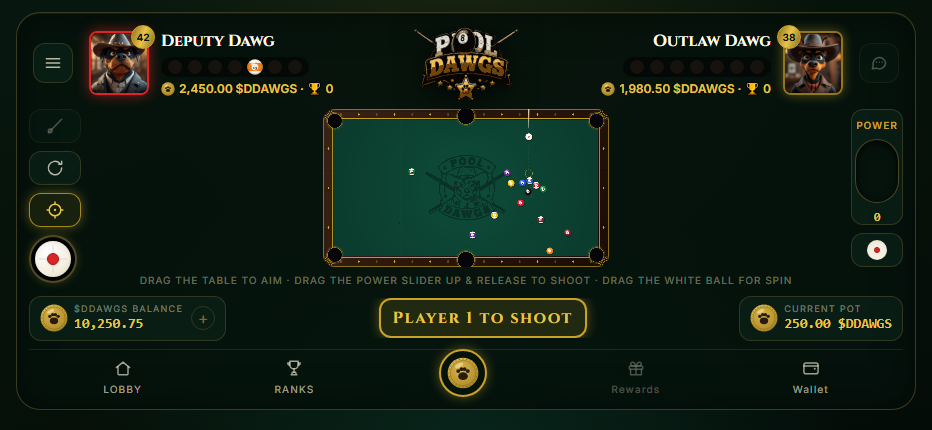
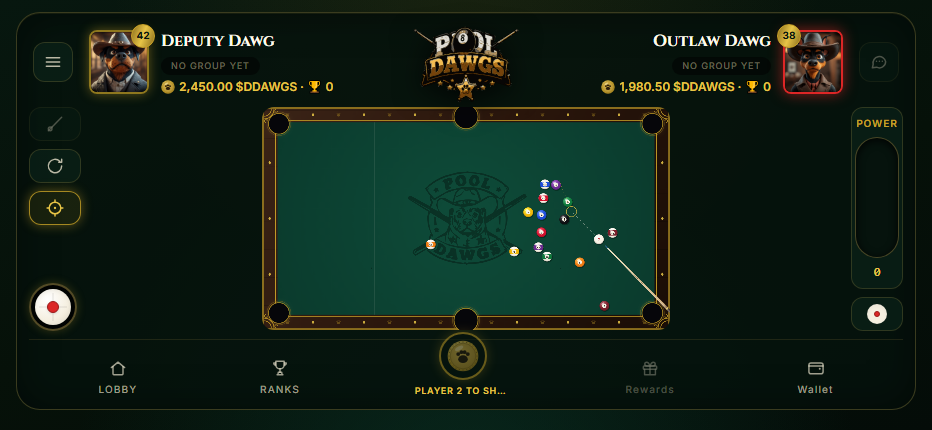
update: frection and 3D

diff --git a/apps/web/components/PoolTable3D.tsx b/apps/web/components/PoolTable3D.tsx
@@ -7,6 +7,7 @@ import { ArcRotateCamera } from "@babylonjs/core/Cameras/arcRotateCamera.js";
 import { HemisphericLight } from "@babylonjs/core/Lights/hemisphericLight.js";
 import { DirectionalLight } from "@babylonjs/core/Lights/directionalLight.js";
 import { Vector3, Color3, Color4 } from "@babylonjs/core/Maths/math.js";
+import { Quaternion } from "@babylonjs/core/Maths/math.vector.js";
 import { MeshBuilder } from "@babylonjs/core/Meshes/meshBuilder.js";
 import { StandardMaterial } from "@babylonjs/core/Materials/standardMaterial.js";
 import { DynamicTexture } from "@babylonjs/core/Materials/Textures/dynamicTexture.js";
@@ -33,10 +34,6 @@ const wz = (py: number) => (TABLE_HEIGHT / 2 - py) * S;
 const R = BALL_RADIUS * S;
 
 const SOLID = "#f5efe0";
-const NUM_COLOR: Record<number, string> = {
-  1: "#f0b90b", 2: "#1f4fd8", 3: "#d2122e", 4: "#6a2c91", 5: "#ef7d14",
-  6: "#0f7a3d", 7: "#7a1f2b", 8: "#101014",
-};
 
 export interface ShotPlayback {
   frames: Frame[];
@@ -233,69 +230,81 @@ function applyFrame(balls: Mesh[], frame: Frame, scene: Scene, ids: BallLike[]):
     }
     if (ids[fb.id]) styleBall(m, ids[fb.id], scene);
     m.isVisible = true;
-    m.position.set(wx(fb.x), R, wz(fb.y));
+    const nx = wx(fb.x);
+    const nz = wz(fb.y);
+    rollBall(m, nx, nz); // rotate by the distance travelled BEFORE moving
+    m.position.set(nx, R, nz);
   }
+}
+
+/**
+ * Roll the ball like a real one: rotate about the horizontal axis
+ * perpendicular to its motion by angle = distance / radius (rolling without
+ * slipping). Composes in world space so successive frames accumulate.
+ */
+function rollBall(mesh: Mesh, nx: number, nz: number): void {
+  const dx = nx - mesh.position.x;
+  const dz = nz - mesh.position.z;
+  const dist = Math.hypot(dx, dz);
+  if (dist < 1e-5 || dist > R * 6) return; // ignore teleports (re-rack/placement)
+  // axis = up × dir = (0,1,0) × (dx,0,dz) = (dz, 0, -dx)
+  const axis = new Vector3(dz / dist, 0, -dx / dist);
+  const q = Quaternion.RotationAxis(axis, dist / R);
+  mesh.rotationQuaternion = q.multiply(mesh.rotationQuaternion ?? Quaternion.Identity());
 }
 
 const styled = new WeakSet<Mesh>();
 function styleBall(mesh: Mesh, ball: BallLike, scene: Scene): void {
   if (styled.has(mesh)) return;
   styled.add(mesh);
+  if (!mesh.rotationQuaternion) mesh.rotationQuaternion = Quaternion.Identity();
   const id = ball.number;
   const style = ballStyle(ball);
-  const mat = new StandardMaterial(`bm${id}`, scene);
-  mat.specularColor = new Color3(0.9, 0.9, 0.9);
-  mat.specularPower = 64;
-  const base =
-    style.number === null
-      ? SOLID
-      : style.kind === "stripe"
-        ? SOLID
-        : NUM_COLOR[style.number] ?? SOLID;
-  mat.diffuseColor = Color3.FromHexString(base);
-  mesh.material = mat;
 
-  // Number / stripe decal on a top-facing disc so it reads from above.
-  if (style.number !== null) {
-    const disc = MeshBuilder.CreateDisc(`d${id}`, { radius: R * 0.95, tessellation: 24 }, scene);
-    disc.parent = mesh;
-    disc.rotation.x = Math.PI / 2; // face up
-    disc.position.y = R * 0.96;
-    const tex = new DynamicTexture(`t${id}`, { width: 128, height: 128 }, scene, false);
-    const ctx = tex.getContext() as unknown as CanvasRenderingContext2D;
-    const col = NUM_COLOR[style.number <= 8 ? style.number : style.number - 8] ?? "#888";
-    ctx.fillStyle = style.kind === "stripe" ? "#f5efe0" : col;
-    ctx.fillRect(0, 0, 128, 128);
-    if (style.kind === "stripe") {
-      ctx.fillStyle = col;
-      ctx.fillRect(0, 36, 128, 56);
-    }
+  // Bake the ball's look INTO the sphere texture so the number/stripe rolls
+  // with the ball (real tumbling) instead of sitting on a fixed top decal.
+  // u = longitude (around), v = latitude (pole→pole).
+  const tex = new DynamicTexture(`bt${id}_${Math.round(mesh.uniqueId)}`, { width: 256, height: 256 }, scene, true);
+  const ctx = tex.getContext() as unknown as CanvasRenderingContext2D;
+  const hue = style.color;
+
+  if (style.kind === "cue") {
+    ctx.fillStyle = SOLID;
+    ctx.fillRect(0, 0, 256, 256);
     ctx.beginPath();
-    ctx.arc(64, 64, 34, 0, Math.PI * 2);
+    ctx.arc(128, 128, 13, 0, Math.PI * 2);
+    ctx.fillStyle = "#c0272d"; // the cue ball's red spot
+    ctx.fill();
+  } else if (style.kind === "stripe") {
+    ctx.fillStyle = SOLID;
+    ctx.fillRect(0, 0, 256, 256);
+    ctx.fillStyle = hue; // colour band around the middle latitudes
+    ctx.fillRect(0, 86, 256, 84);
+  } else {
+    ctx.fillStyle = hue; // solid / eight / snooker colour
+    ctx.fillRect(0, 0, 256, 256);
+  }
+
+  // Numbered balls: a white circle with the printed number near the top so
+  // it's readable at rest and revolves as the ball rolls.
+  if (style.number !== null) {
+    ctx.beginPath();
+    ctx.arc(128, 80, 34, 0, Math.PI * 2);
     ctx.fillStyle = "#f5efe0";
     ctx.fill();
     ctx.fillStyle = "#16120e";
-    ctx.font = "bold 52px Georgia";
+    ctx.font = "bold 40px Georgia";
     ctx.textAlign = "center";
     ctx.textBaseline = "middle";
-    ctx.fillText(String(style.number), 64, 70);
-    tex.update();
-    const dmat = new StandardMaterial(`dm${id}`, scene);
-    dmat.diffuseTexture = tex;
-    dmat.emissiveColor = new Color3(0.25, 0.25, 0.25);
-    dmat.specularColor = new Color3(0, 0, 0);
-    disc.material = dmat;
-  } else {
-    // Cue ball: a small red spot on top.
-    const spot = MeshBuilder.CreateDisc(`cs`, { radius: R * 0.22, tessellation: 16 }, scene);
-    spot.parent = mesh;
-    spot.rotation.x = Math.PI / 2;
-    spot.position.y = R * 0.99;
-    const sm = new StandardMaterial(`csm`, scene);
-    sm.emissiveColor = new Color3(0.8, 0.1, 0.1);
-    sm.disableLighting = true;
-    spot.material = sm;
+    ctx.fillText(String(style.number), 128, 82);
   }
+  tex.update();
+
+  const mat = new StandardMaterial(`bm${id}_${Math.round(mesh.uniqueId)}`, scene);
+  mat.diffuseTexture = tex;
+  mat.specularColor = new Color3(0.85, 0.85, 0.85);
+  mat.specularPower = 80;
+  mesh.material = mat;
 }
 
 function buildTable(scene: Scene): void {

diff --git a/apps/web/components/GameShell.tsx b/apps/web/components/GameShell.tsx
@@ -317,16 +317,15 @@ export default function GameShell({
         </div>
       </div>
 
-      {/* ── controls hint — desktop vs touch get different schemes ── */}
+      {/* ── controls hint (desktop only — touch declutters to the nav) ── */}
       <p className="mt-1.5 text-center text-[10px] uppercase tracking-widest text-amber-100/40 touch:hidden">
         Aim: mouse · Power: hold click, W/S, or slider · Shoot: release, click, or Space · Spin: drag the white ball
       </p>
-      <p className="mt-1.5 hidden text-center text-[10px] uppercase tracking-widest text-amber-100/40 touch:block">
-        Drag the table to aim · drag the Power slider up &amp; release to shoot · drag the white ball for spin
-      </p>
 
-      {/* ── bottom bar ── */}
-      <div className="mt-2 flex items-center gap-3">
+      {/* ── bottom bar — hidden on touch; phones get the compact nav below,
+            with the turn shown on the centre token (balance/pot/mode chips
+            drop away to give the table room). ── */}
+      <div className="mt-2 flex items-center gap-3 touch:hidden">
         <MoneyPanel title="$DDAWGS balance" value={balanceLabel ?? "—"} icon={<TokenIcon />} plus />
         <ModeChip
           label="8 BALL"
@@ -393,10 +392,23 @@ export default function GameShell({
       >
         <NavItem href="/lobby" icon={<IconHome className="h-5 w-5" />} label="Lobby" />
         <NavItem href="/leaderboard" icon={<IconTrophy className="h-5 w-5" />} label="Ranks" />
-        <span className="-mt-4 flex h-12 w-12 items-center justify-center rounded-full border-2 border-gold bg-emerald-deep shadow-gold-glow">
-          {/* eslint-disable-next-line @next/next/no-img-element */}
-          <img src="/assets/token.svg" alt="" className="h-8 w-8" draggable={false} />
-        </span>
+        {/* Centre token doubles as the turn indicator on phones: it glows on
+            your turn, and the player-turn status sits beneath it. */}
+        <div className="-mt-4 flex flex-col items-center gap-1">
+          <span
+            className={`flex h-12 w-12 items-center justify-center rounded-full border-2 bg-emerald-deep ${
+              !state.gameOver && interactive
+                ? "animate-pulse border-gold shadow-gold-glow"
+                : "border-gold-dim/60"
+            }`}
+          >
+            {/* eslint-disable-next-line @next/next/no-img-element */}
+            <img src="/assets/token.svg" alt="" className="h-8 w-8" draggable={false} />
+          </span>
+          <span className="max-w-[6rem] truncate text-[9px] font-semibold tracking-[0.08em] text-gold-bright">
+            {statusText}
+          </span>
+        </div>
         <NavItem icon={<IconGift className="h-5 w-5" />} label="Rewards" disabled title="Rewards — coming soon" />
         <NavItem
           icon={<IconWallet className="h-5 w-5" />}

diff --git a/packages/engine/src/havok/simulator.ts b/packages/engine/src/havok/simulator.ts
@@ -58,16 +58,16 @@ const PX = (m: number) => m * PX_PER_M;
 const R = M(BALL_RADIUS); // ball radius (m)
 
 const DT = 1 / 120; // fixed Havok timestep (matches PHYSICS_FPS)
-/** Settle threshold (m/s) — below this every ball is treated as stopped.
- *  ~3 cm/s; trims the slow end-crawl so full-power shots settle in a few
- *  seconds rather than creeping for ~8 s under light damping. */
-const SLEEP_SPEED = M(18);
+/** Settle threshold (m/s) — below this a ball is treated as stopped. Kept low
+ *  (~1.5 cm/s) so balls EASE to rest instead of snapping to a stop while still
+ *  visibly creeping (which read as "stops too soon"). */
+const SLEEP_SPEED = M(8);
 /** Full-power launch speed (m/s). Real cue-ball break tops out ~7–8 m/s; this
  *  also keeps per-step travel below the rail thickness (no tunnelling). */
 const MAX_SPEED_MS = 8.5;
-/** Cloth drag — calibrated in scripts/havok-playtest.mjs (3–4 table lengths).
- *  Low, because cloth friction now provides most of the rolling resistance. */
-const LINEAR_DAMPING = 0.4;
+/** Cloth drag — calibrated in scripts/havok-playtest.mjs. Lower = balls carry
+ *  further and slow more gently (less "high friction" feel). */
+const LINEAR_DAMPING = 0.28;
 /** Low, so cue-ball spin survives the roll to first contact (draw/follow). */
 const ANGULAR_DAMPING = 0.3;
 /** Spin authority: multiples of the natural rolling rate (v/R) at full spin. */
